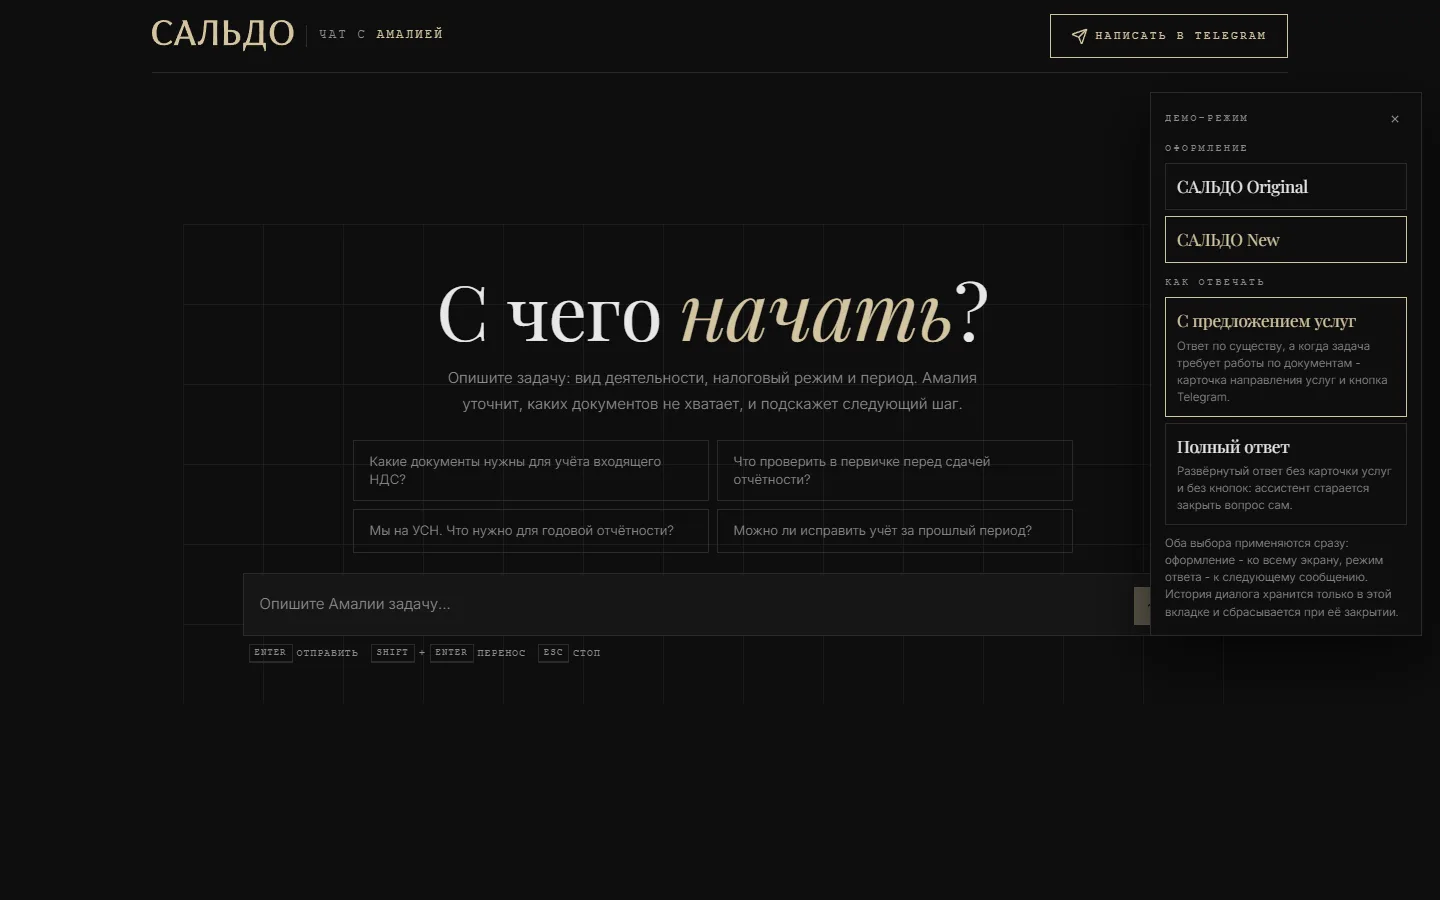
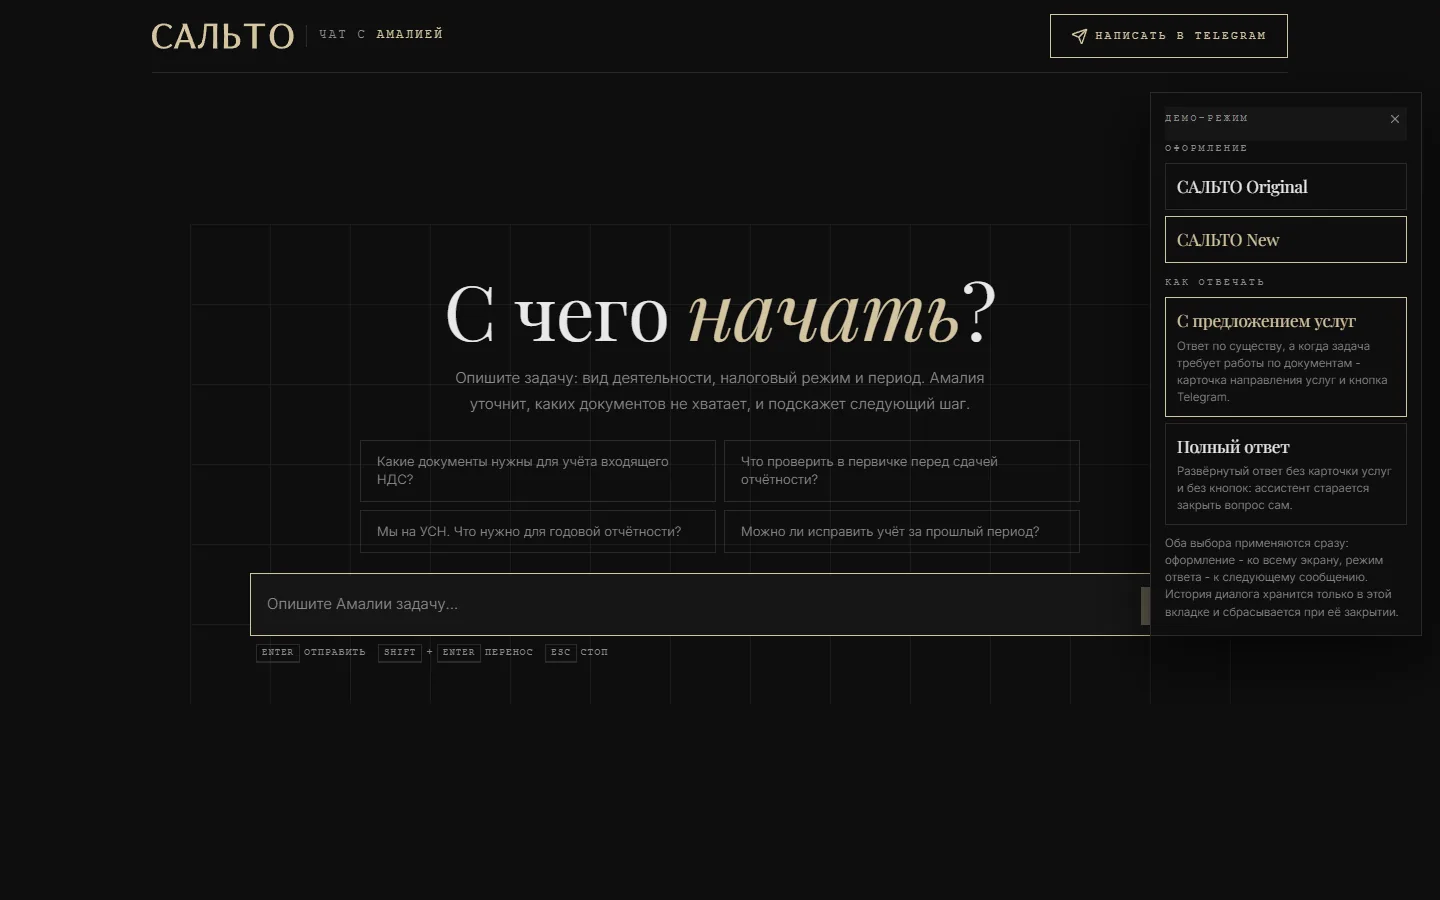
Update projects.js

diff --git a/index.html b/index.html
@@ -59,5 +59,5 @@
 <footer class="ftr"><div class="wrap ftr__in"><span>© <span id="year">2026</span> Дмитрий О.</span><button class="totop" id="totop" type="button">↑ TOP</button></div></footer>
 <div class="lb" id="lb" role="dialog" aria-modal="true" aria-label="Просмотр проекта" hidden><div class="lb__back" data-lb-close></div><button class="lb__x" type="button" aria-label="Закрыть" data-lb-close>×</button><button class="lb__nav lb__nav--prev" type="button" aria-label="Предыдущий проект" id="lbPrev">←</button><button class="lb__nav lb__nav--next" type="button" aria-label="Следующий проект" id="lbNext">→</button><figure class="lb__fig"><div class="lb__media"><img id="lbImg" alt=""><video id="lbVid" hidden muted loop playsinline controls></video></div><div class="lb__shots" id="lbShots" hidden></div><figcaption class="lb__cap"><div><span class="lb__label">PROJECT / PREVIEW</span><h3 id="lbTitle"></h3><p id="lbDesc"></p></div><a class="btn btn--primary lb__go" id="lbGo" href="#" target="_blank" rel="noopener"><span id="lbGoTxt">Открыть</span> ↗</a></figcaption></figure></div>
 <div class="demo" id="demo" role="dialog" aria-modal="true" aria-label="Демо проекта" hidden><div class="demo__back" data-demo-close></div><div class="demo__ui"><span class="demo__name" id="demoTitle"></span><a class="demo__ext" id="demoExt" href="#" target="_blank" rel="noopener">Открыть ↗</a><button class="demo__x" type="button" aria-label="Закрыть" data-demo-close>×</button></div><div class="demo__mon" id="demoMon"><div class="demo__bezel"><div class="demo__screen" id="demoScreen"><p class="demo__fail" id="demoFail" hidden>Демо не загрузилось. <a id="demoFailLink" href="#" target="_blank">Открыть в новой вкладке</a>.</p></div><span class="demo__led"></span></div><div class="demo__stand"></div></div></div>
-<script src="assets/data/projects.js?v=20261105b"></script><script src="assets/js/app.js"></script>
+<script src="assets/data/projects.js?v=20261112a"></script><script src="assets/js/app.js"></script>
 </body></html>

diff --git a/apps/amalia/index.html b/apps/amalia/index.html
@@ -3,11 +3,11 @@
 <head>
 <meta charset="utf-8">
 <meta name="viewport" content="width=device-width, initial-scale=1, viewport-fit=cover">
-<title>Amalia | AI-консультант САЛЬДО</title>
-<meta name="description" content="Чат с Амалией | AI-бухгалтер-консультант сервиса САЛЬДО: ответ стримится по мере генерации, историю можно остановить, ключ OpenRouter остаётся на сервере.">
+<title>Amalia | AI-консультант САЛЬТО</title>
+<meta name="description" content="Чат с Амалией | AI-бухгалтер-консультант сервиса САЛЬТО: ответ стримится по мере генерации, историю можно остановить, ключ OpenRouter остаётся на сервере.">
 <meta property="og:type" content="website">
-<meta property="og:title" content="Amalia | AI-консультант САЛЬДО">
-<meta property="og:description" content="Чат с Амалией | AI-бухгалтер-консультант сервиса САЛЬДО: ответ стримится по мере генерации, историю можно остановить, ключ OpenRouter остаётся на сервере.">
+<meta property="og:title" content="Amalia | AI-консультант САЛЬТО">
+<meta property="og:description" content="Чат с Амалией | AI-бухгалтер-консультант сервиса САЛЬТО: ответ стримится по мере генерации, историю можно остановить, ключ OpenRouter остаётся на сервере.">
 <meta property="og:url" content="https://dvodev.space/apps/amalia/">
 <meta name="color-scheme" content="dark light">
 <meta name="theme-color" content="#0a0a0a">

diff --git a/assets/data/projects.js b/assets/data/projects.js
@@ -202,7 +202,7 @@ window.PROJECTS = [
     links: { repo: 'https://github.com/CityStas/hc_local_ai_image_3D' }
     
   },
-  // 2026-11-05: Amalia - чат с бухгалтером-консультантом САЛЬДО. Живая веб-версия
+  // 2026-11-05: Amalia - чат с бухгалтером-консультантом САЛЬТО. Живая веб-версия
   // задеплоена на Vercel (amaliachat.vercel.app), ключ OpenRouter живёт только на
   // сервере; локальное зеркало в apps/amalia/ открывает тот же чат через iframe.
   // Основной кадр - светлая стартовая страница (без ответа); в галерее ещё
@@ -214,7 +214,7 @@ window.PROJECTS = [
   {
     title: 'Amalia',
     kind: 'AI-продукт',
-    desc: 'AI-чат с бухгалтером-консультантом для бухгалтерской компании. Роль задаётся системным промптом на сервере. Предусмотрены бесплатный и расширенный (платный) варианты генерации ответов.\n\n*ВАЖНО: Для стабильной работы из РФ нужен VPN/прокси.',
+    desc: 'AI-чат с бухгалтером-консультантом для бухгалтерской компании. Роль задаётся системным промптом на сервере. Предусмотрены бесплатный и расширенный ("платный") варианты генерации ответов.\n\n*ВАЖНО: Для стабильной работы из РФ нужен VPN/прокси.',
     tags: ['React', 'TypeScript', 'Express', 'OpenRouter', 'SSE', 'Vercel'],
     year: '2026',
     status: 'live',
